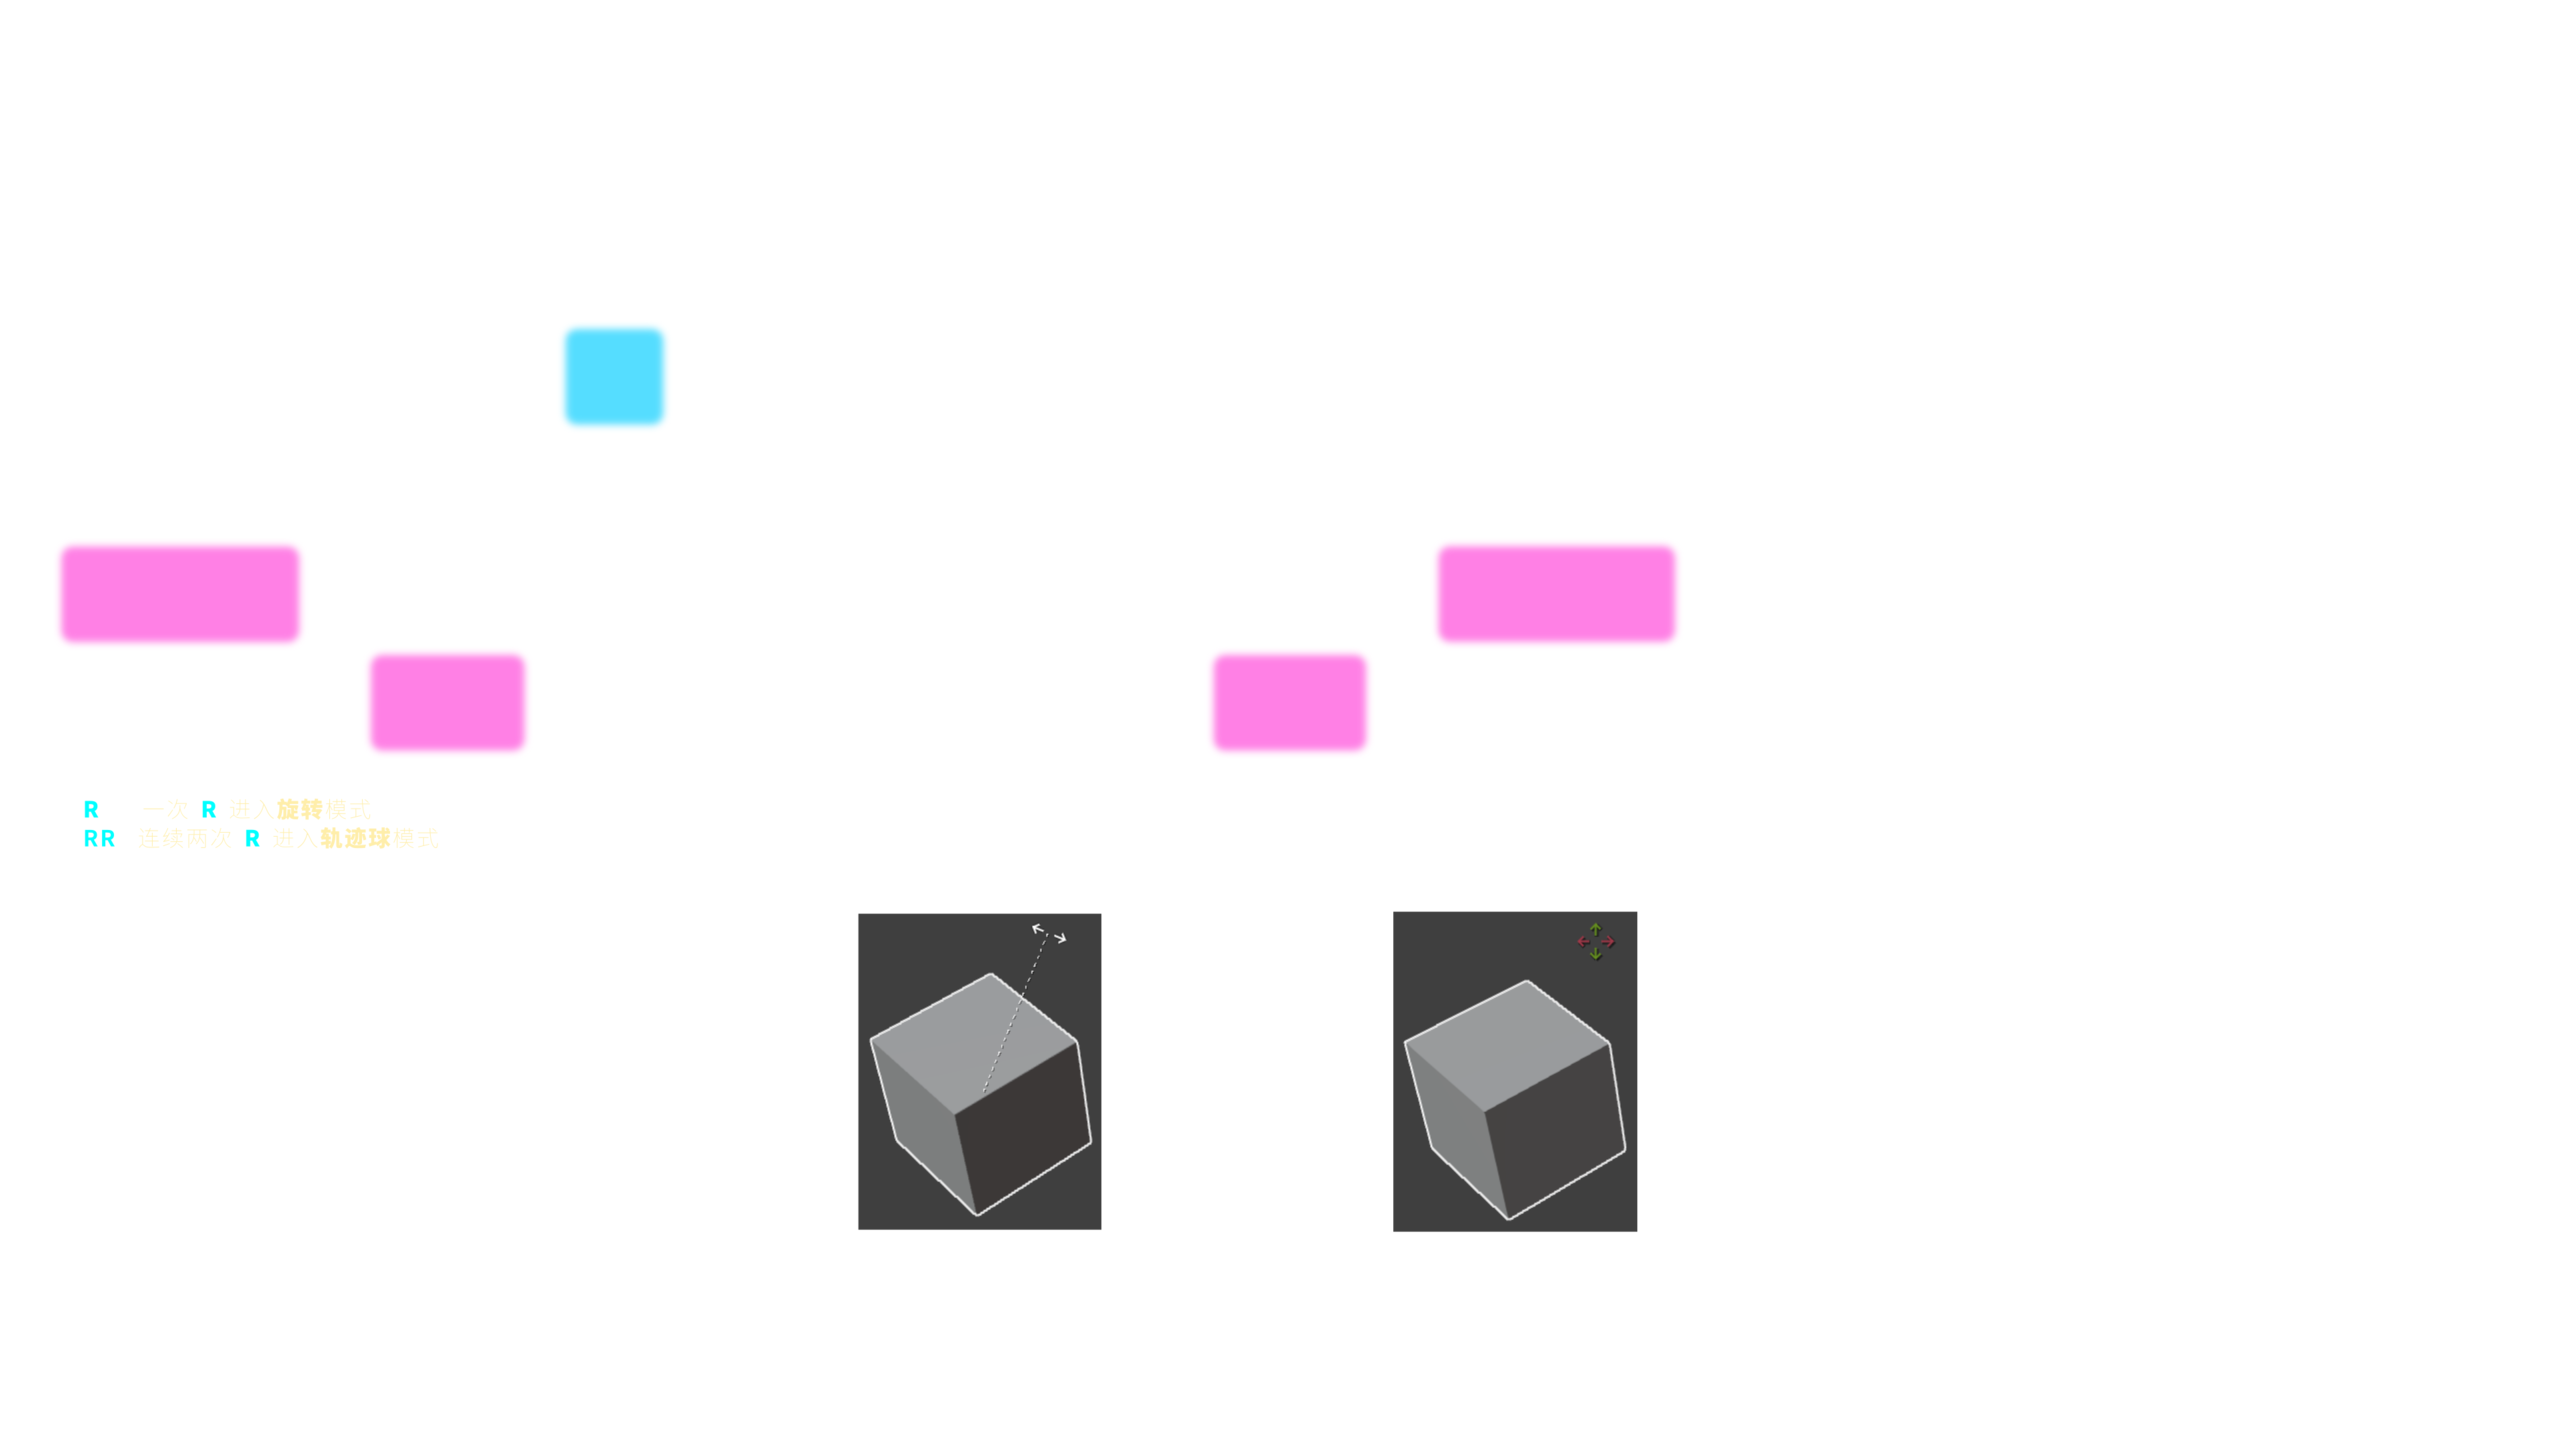
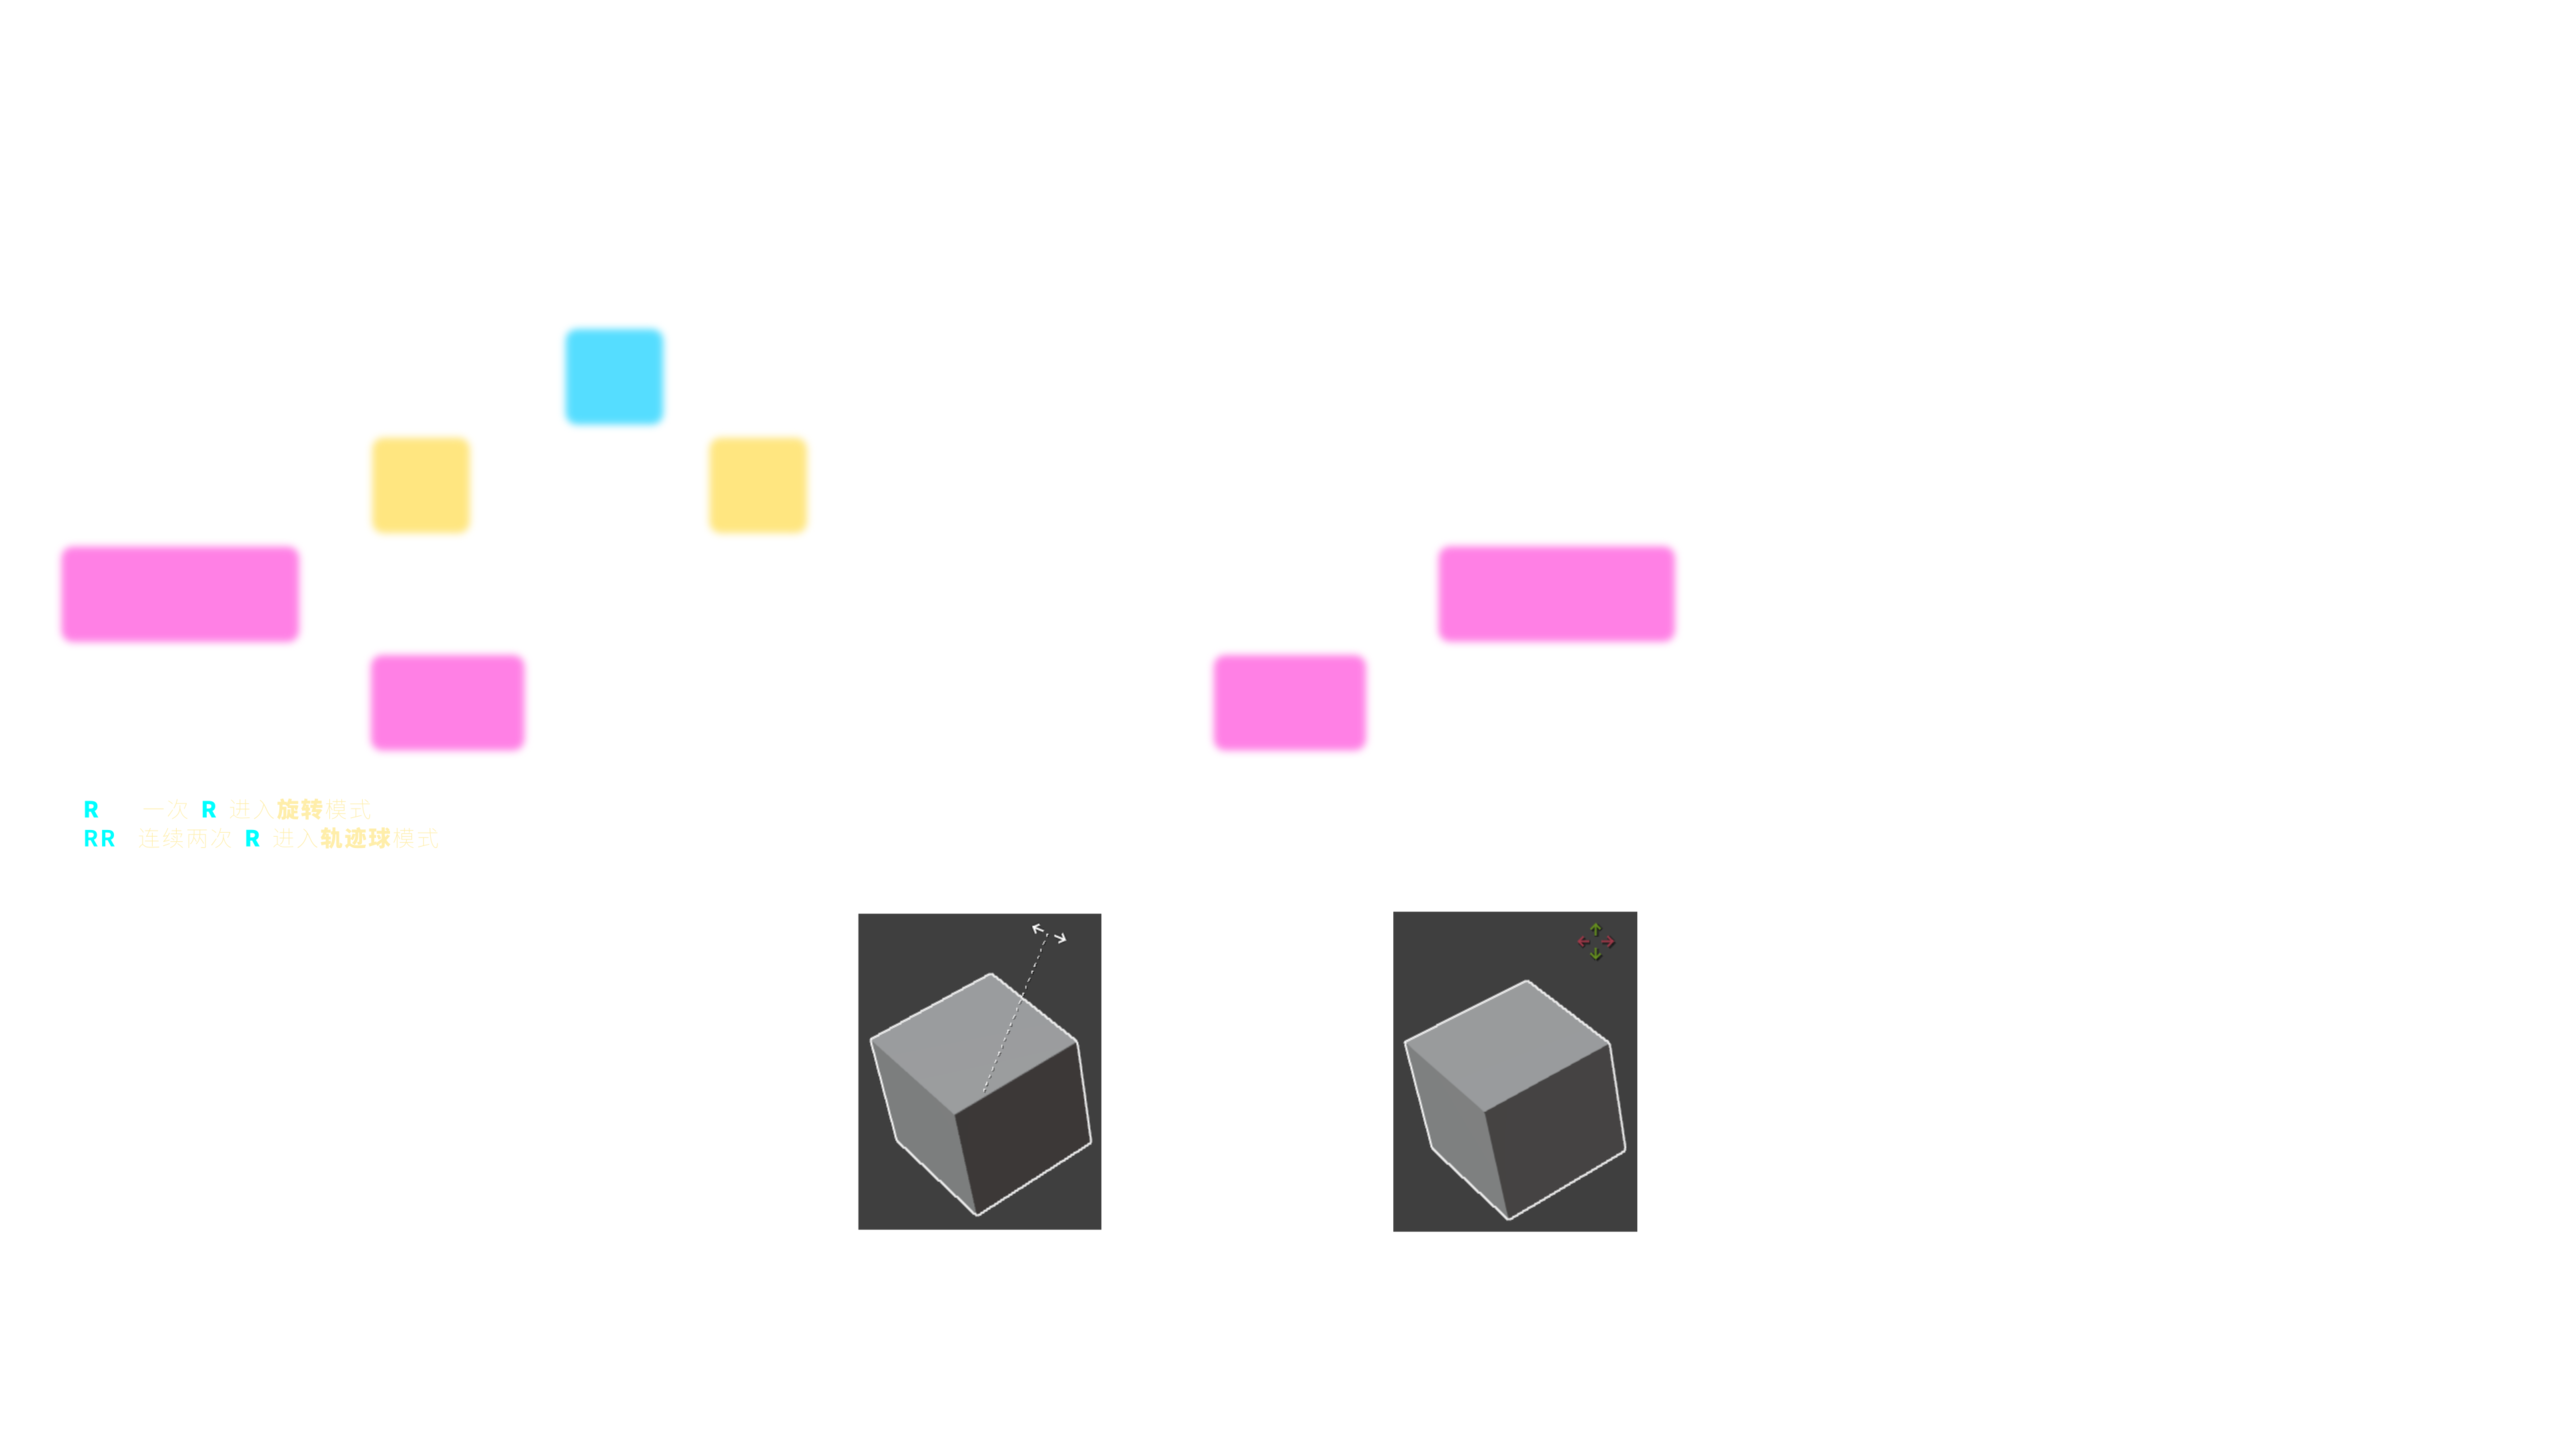
睡前备份

Changed region(s): [[0.25, 0.2812, 0.3438, 0.375], [0.125, 0.2812, 0.1875, 0.375]]

diff --git a/no_shortcut.py b/no_shortcut.py
@@ -206,6 +206,16 @@ class NS_OT_no_shortcut(bpy.types.Operator):
                 draw_keys('R_SHIFT.png')
             return {'RUNNING_MODAL'}
         
+        if event.type == 'T':
+            draw_keys("T.png")
+            return {'RUNNING_MODAL'}
+        
+        if event.type == 'Y':
+            return {'RUNNING_MODAL'}
+        
+        if event.type == 'U':
+            return {'RUNNING_MODAL'}
+        
         if event.type == 'A':
             draw_keys("A.png")
             return {'RUNNING_MODAL'}
